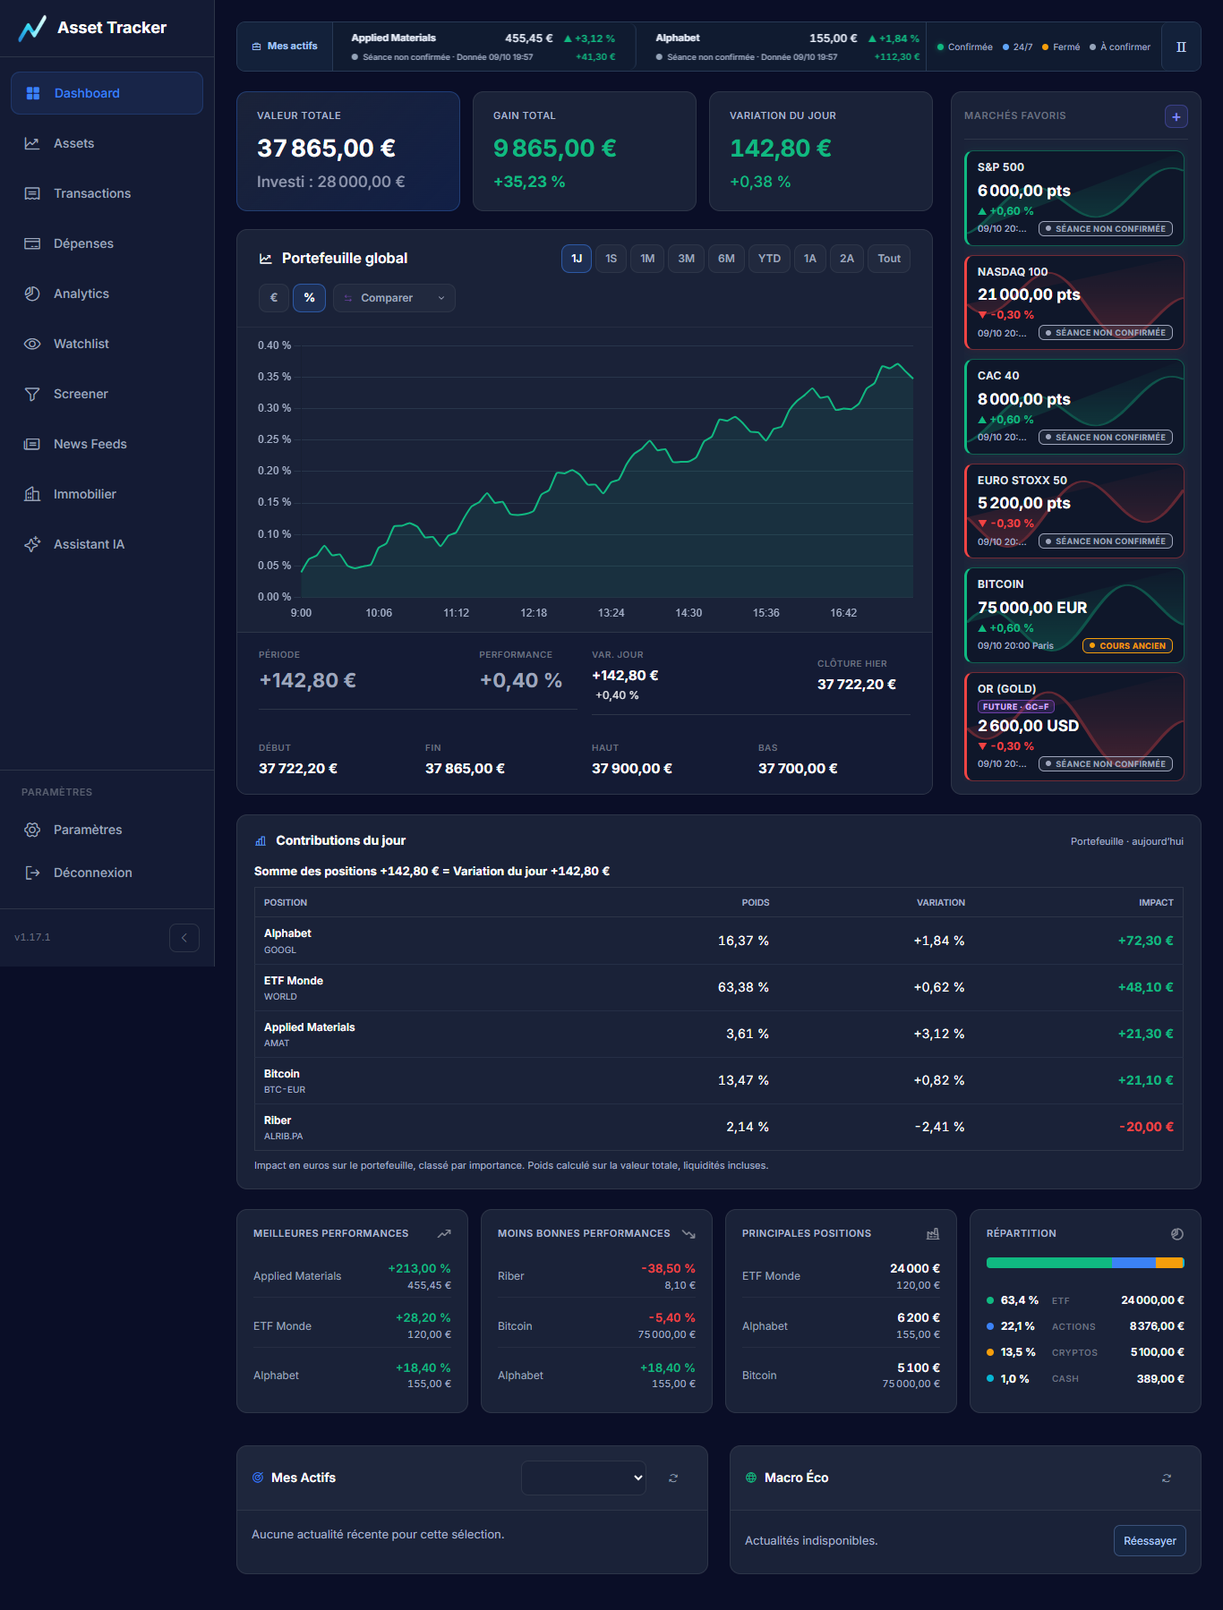
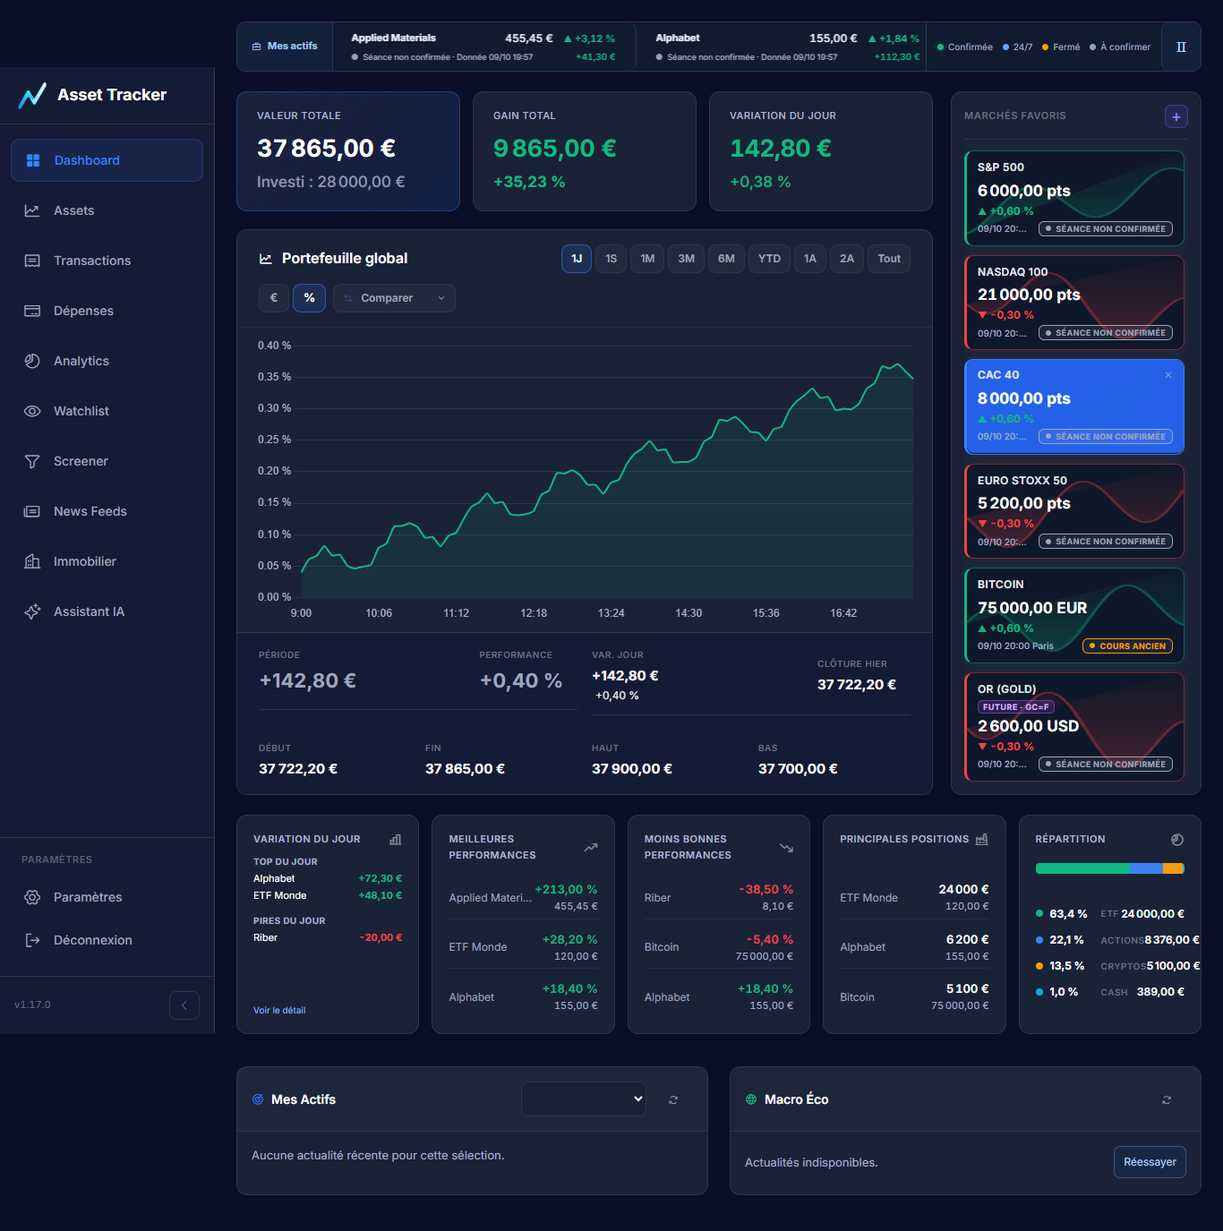
audit codex lot 2 fix carte var today detail

diff --git a/src/dashboardApp.js b/src/dashboardApp.js
@@ -28,7 +28,7 @@ import { buildWatchlistContext } from './watchlistContext.js';
 import { DEFAULT_DASHBOARD_INDICES } from './appDataContext.js';
 import { normalizeDashboardIndices, presentDashboardQuote, scheduledMarketStatus } from './dashboardMarketData.js';
 import { MarketTicker, selectPortfolioMovers } from './marketTicker.js';
-import { selectDailyContributions } from './dashboardContributions.js';
+import { selectDailyContributions, selectContributionHighlights } from './dashboardContributions.js';
 
 const SPARKLINE_TTL_MS = 5 * 60 * 1000;
 const marketCardStateClass = view => {
@@ -356,17 +356,67 @@ export class DashboardApp {
     }
 
     renderDailyContributions(snapshot, { previousSession = false, stale = false } = {}) {
+        const data = selectDailyContributions(snapshot, { previousSession });
+        const highlights = document.getElementById('dashboard-contribution-highlights');
+        const state = document.getElementById('dashboard-contribution-state');
         const panel = document.getElementById('dashboard-contributions');
+        if (!panel && !highlights) return;
+        const money = value => `${value > 0 ? '+' : ''}${new Intl.NumberFormat('fr-FR', {
+            style: 'currency', currency: 'EUR', minimumFractionDigits: 2, maximumFractionDigits: 2
+        }).format(value)}`;
+        if (highlights) {
+            highlights.replaceChildren();
+            const card = highlights.closest('.contribution-kpi-card');
+            if (card) card.dataset.status = data.status;
+            if (data.status === 'previous-session' || data.status === 'unavailable') {
+                const empty = document.createElement('p');
+                empty.className = 'contribution-kpi-empty';
+                empty.textContent = data.status === 'previous-session' ? 'Variation du jour indisponible' : 'Contributions indisponibles';
+                highlights.append(empty);
+            } else {
+                const { best, worst } = selectContributionHighlights(data);
+                for (const [label, rows, emptyText] of [
+                    ['Top du jour', best, 'Aucune hausse'],
+                    ['Pires du jour', worst, 'Aucune baisse']
+                ]) {
+                    const group = document.createElement('div');
+                    group.className = 'contribution-kpi-group';
+                    const heading = document.createElement('span');
+                    heading.className = 'contribution-kpi-group-label';
+                    heading.textContent = label;
+                    group.append(heading);
+                    if (!rows.length) {
+                        const empty = document.createElement('span');
+                        empty.className = 'contribution-kpi-placeholder';
+                        empty.textContent = emptyText;
+                        group.append(empty);
+                    }
+                    for (const row of rows) {
+                        const line = document.createElement('div');
+                        line.className = 'contribution-kpi-row';
+                        const name = document.createElement('span');
+                        name.className = 'contribution-kpi-name';
+                        name.textContent = row.name;
+                        name.title = row.name;
+                        const impact = document.createElement('strong');
+                        impact.className = row.impact > 0 ? 'stat-positive' : 'stat-negative';
+                        impact.textContent = money(row.impact);
+                        line.append(name, impact);
+                        group.append(line);
+                    }
+                    highlights.append(group);
+                }
+            }
+        }
+        if (state) {
+            state.textContent = data.status === 'partial' ? 'Décomposition partielle' : data.status === 'mismatch' ? 'Écart à vérifier' : stale && !['previous-session', 'unavailable'].includes(data.status) ? 'Dernier état connu' : 'Voir le détail';
+        }
         if (!panel) return;
         const summary = panel.querySelector('.contributions-summary');
         const note = panel.querySelector('.contributions-note');
         const table = panel.querySelector('.contributions-table');
         const body = table?.querySelector('tbody');
         if (!summary || !note || !table || !body) return;
-        const data = selectDailyContributions(snapshot, { previousSession });
-        const money = value => `${value > 0 ? '+' : ''}${new Intl.NumberFormat('fr-FR', {
-            style: 'currency', currency: 'EUR', minimumFractionDigits: 2, maximumFractionDigits: 2
-        }).format(value)}`;
         const percent = value => value === null ? '—' : `${value > 0 ? '+' : ''}${value.toLocaleString('fr-FR', {
             minimumFractionDigits: 2, maximumFractionDigits: 2
         })} %`;
@@ -1395,18 +1445,35 @@ export class DashboardApp {
     }
 
     setupKPIModals() {
-        // Card order matches the four corresponding detail views.
         const grid = document.querySelector('.dashboard-kpi-grid-v2');
         const cards = grid ? [...grid.querySelectorAll(':scope > .kpi-card')] : [];
-        const types = ['gainer', 'loser', 'asset', 'allocation'];
-        cards.forEach((card, i) => {
-            const type = types[i];
+        cards.forEach(card => {
+            const type = card.dataset.kpiType;
             if (!type) return;
             card.dataset.clickable = type;
-            card.addEventListener('click', () => {
-                if (type === 'allocation') this.openAllocationModal();
+            const open = () => {
+                if (type === 'contributions') this.openContributionsModal();
+                else if (type === 'allocation') this.openAllocationModal();
                 else this.openKPIModal(type);
+            };
+            card.addEventListener('click', open);
+            card.addEventListener('keydown', event => {
+                if (event.key !== 'Enter' && event.key !== ' ') return;
+                event.preventDefault();
+                open();
             });
+        });
+
+        document.getElementById('close-contributions-modal')?.addEventListener('click', () => this.closeContributionsModal());
+        document.getElementById('contributions-modal')?.addEventListener('click', event => {
+            if (event.target === event.currentTarget) this.closeContributionsModal();
+        });
+        document.getElementById('contributions-modal')?.addEventListener('keydown', event => {
+            if (event.key === 'Escape') this.closeContributionsModal();
+            if (event.key === 'Tab') {
+                event.preventDefault();
+                document.getElementById('close-contributions-modal')?.focus();
+            }
         });
 
         document.getElementById('close-kpi-modal')?.addEventListener('click', () => {
@@ -1420,6 +1487,21 @@ export class DashboardApp {
                 if (e.target === e.currentTarget) e.currentTarget.style.display = 'none';
             });
         });
+    }
+
+    openContributionsModal() {
+        const modal = document.getElementById('contributions-modal');
+        if (!modal) return;
+        this._contributionsReturnFocus = document.activeElement;
+        modal.style.display = 'flex';
+        document.getElementById('close-contributions-modal')?.focus();
+    }
+
+    closeContributionsModal() {
+        const modal = document.getElementById('contributions-modal');
+        if (!modal) return;
+        modal.style.display = 'none';
+        this._contributionsReturnFocus?.focus?.();
     }
 
     openKPIModal(type) {

diff --git a/dashboard.html b/dashboard.html
@@ -17,7 +17,7 @@
     <link rel="stylesheet" href="css/dashboard.css?v=102">
     <link rel="stylesheet" href="css/dashboard-mobile.css?v=6">
     <link rel="stylesheet" href="css/chart-toolbar.css?v=7">
-    <link rel="stylesheet" href="css/dashboard-premium.css?v=4">
+    <link rel="stylesheet" href="css/dashboard-premium.css?v=5">
 
     <link rel="preconnect" href="https://fonts.googleapis.com">
     <link rel="preconnect" href="https://fonts.gstatic.com" crossorigin>
@@ -273,22 +273,13 @@
                 </div>
             </div>
 
-            <section id="dashboard-contributions" class="dashboard-contributions" aria-labelledby="contributions-title">
-                <div class="contributions-header">
-                    <h3 id="contributions-title"><i class="ph ph-chart-bar" aria-hidden="true"></i> Contributions du jour</h3>
-                    <span class="contributions-horizon">Portefeuille · aujourd’hui</span>
-                </div>
-                <p class="contributions-summary">Chargement…</p>
-                <div class="contributions-table-wrap">
-                    <table class="contributions-table" aria-label="Impact quotidien des positions sur le portefeuille">
-                        <thead><tr><th scope="col">Position</th><th scope="col">Poids</th><th scope="col">Variation</th><th scope="col">Impact</th></tr></thead>
-                        <tbody></tbody>
-                    </table>
-                </div>
-                <p class="contributions-note"></p>
-            </section>
             <div class="dashboard-kpi-grid-v2">
-                <div class="kpi-card">
+                <div class="kpi-card contribution-kpi-card" data-kpi-type="contributions" role="button" tabindex="0" aria-haspopup="dialog" aria-controls="contributions-modal" aria-label="Variation du jour : voir toutes les contributions" aria-describedby="dashboard-contribution-highlights dashboard-contribution-state">
+                    <div class="kpi-header"><span class="kpi-label">Variation du jour</span><i class="ph ph-chart-bar kpi-icon" aria-hidden="true"></i></div>
+                    <div id="dashboard-contribution-highlights" class="contribution-highlights" aria-live="polite"></div>
+                    <div id="dashboard-contribution-state" class="contribution-kpi-state"></div>
+                </div>
+                <div class="kpi-card" data-kpi-type="gainer" role="button" tabindex="0">
                     <div class="kpi-header"><span class="kpi-label">Meilleures performances</span><i
                             class="ph ph-trend-up kpi-icon"></i>
                     </div>
@@ -296,7 +287,7 @@
                     <div class="kpi-meta"><span id="dashboard-top-gainer-pct" class="kpi-change-pct">-</span>
                     </div>
                 </div>
-                <div class="kpi-card">
+                <div class="kpi-card" data-kpi-type="loser" role="button" tabindex="0">
                     <div class="kpi-header"><span class="kpi-label">Moins bonnes performances</span><i
                             class="ph ph-trend-down kpi-icon"></i>
                     </div>
@@ -304,12 +295,12 @@
                     <div class="kpi-meta"><span id="dashboard-top-loser-pct" class="kpi-change-pct">-</span>
                     </div>
                 </div>
-                <div class="kpi-card">
+                <div class="kpi-card" data-kpi-type="asset" role="button" tabindex="0">
                     <div class="kpi-header"><span class="kpi-label">Principales positions</span><i
                             class="ph ph-factory kpi-icon"></i></div>
                     <div class="kpi-name-large" id="dashboard-top-sector">-</div>
                 </div>
-                <div class="kpi-card">
+                <div class="kpi-card" data-kpi-type="allocation" role="button" tabindex="0">
                     <div class="kpi-header"><span class="kpi-label">Répartition</span><i
                             class="ph ph-chart-pie-slice kpi-icon"></i>
                     </div>
@@ -414,6 +405,26 @@
                 <button class="index-tab" data-tab="Forex">Forex</button>
             </div>
             <div id="add-index-grid" class="add-index-grid"></div>
+        </div>
+    </div>
+
+    <!-- DÉTAIL DE LA VARIATION DU JOUR -->
+    <div id="contributions-modal" class="kpi-modal-overlay contributions-modal" style="display:none;" role="dialog" aria-modal="true" aria-labelledby="contributions-title">
+        <div class="kpi-modal-box">
+            <div class="kpi-modal-header">
+                <h3 id="contributions-title"><i class="ph ph-chart-bar" aria-hidden="true"></i> Contributions du jour</h3>
+                <button id="close-contributions-modal" class="kpi-modal-close" type="button" aria-label="Fermer les contributions du jour">×</button>
+            </div>
+            <div id="dashboard-contributions" class="dashboard-contributions kpi-modal-body">
+                <p class="contributions-summary">Chargement…</p>
+                <div class="contributions-table-wrap">
+                    <table class="contributions-table" aria-label="Impact quotidien des positions sur le portefeuille">
+                        <thead><tr><th scope="col">Position</th><th scope="col">Poids</th><th scope="col">Variation</th><th scope="col">Impact</th></tr></thead>
+                        <tbody></tbody>
+                    </table>
+                </div>
+                <p class="contributions-note"></p>
+            </div>
         </div>
     </div>
 

diff --git a/css/dashboard-premium.css b/css/dashboard-premium.css
@@ -27,14 +27,25 @@
 .dashboard-premium .kpi-row-left { min-width: 0; }
 .dashboard-premium .kpi-row-right { font-size: 13px; flex-shrink: 0; font-variant-numeric: tabular-nums; }
 .dashboard-premium .kpi-row-right .kpi-sub-value { font-size: 11px; color: var(--dashboard-muted); }
+.dashboard-premium .contribution-kpi-card { display: flex; flex-direction: column; }
+.contribution-highlights { display: flex; flex-direction: column; gap: 9px; flex: 1; min-width: 0; }
+.contribution-kpi-group { min-width: 0; }
+.contribution-kpi-group-label { display: block; margin-bottom: 2px; color: var(--dashboard-muted); font-size: 10px; font-weight: 700; text-transform: uppercase; letter-spacing: .04em; }
+.contribution-kpi-row { display: flex; justify-content: space-between; align-items: baseline; gap: 5px; min-width: 0; padding: 1px 0; font-size: 11px; }
+.contribution-kpi-name { min-width: 0; overflow: hidden; text-overflow: ellipsis; white-space: nowrap; color: var(--text-primary); }
+.contribution-kpi-row strong { flex-shrink: 0; font-size: 11px; font-variant-numeric: tabular-nums; }
+.contribution-kpi-placeholder, .contribution-kpi-empty { color: var(--dashboard-muted); font-size: 11px; }
+.contribution-kpi-empty { margin: 18px 0 0; }
+.contribution-kpi-state { margin-top: 6px; color: #8ab7ff; font-size: 10px; }
+.contribution-kpi-card[data-status="partial"] .contribution-kpi-state,
+.contribution-kpi-card[data-status="mismatch"] .contribution-kpi-state { color: #fbbf24; }
 .dashboard-contributions { min-width: 0; padding: 17px 19px; border: 1px solid var(--border-color); border-radius: 12px; background: var(--bg-card); }
-.contributions-header { display: flex; align-items: baseline; justify-content: space-between; gap: 12px; flex-wrap: wrap; }
-.contributions-header h3 { margin: 0; color: var(--text-primary); font-size: 14px; font-weight: 700; }
-.contributions-header h3 i { color: #60a5fa; margin-right: 7px; }
-.contributions-horizon { color: var(--dashboard-muted); font-size: 11px; }
+.contributions-modal .kpi-modal-box { max-width: 940px; }
+.contributions-modal .dashboard-contributions { border: 0; border-radius: 0; }
+.contributions-modal .kpi-modal-header i { color: #60a5fa; margin-right: 7px; }
 .contributions-summary { margin: 12px 0 8px; color: var(--text-primary); font-size: 13px; font-weight: 650; font-variant-numeric: tabular-nums; }
 .contributions-note { margin: 9px 0 0; color: var(--dashboard-muted); font-size: 11px; line-height: 1.45; }
-.contributions-table-wrap { min-width: 0; max-height: 320px; overflow: auto; scrollbar-width: thin; }
+.contributions-table-wrap { min-width: 0; max-height: 60vh; overflow: auto; scrollbar-width: thin; }
 .contributions-table { width: 100%; border-collapse: collapse; font-size: 12px; font-variant-numeric: tabular-nums; }
 .contributions-table th { position: sticky; top: 0; background: var(--bg-card); color: var(--dashboard-muted); text-align: right; font-size: 10px; font-weight: 600; padding: 8px 10px; border-bottom: 1px solid var(--border-color); }
 .contributions-table th:first-child { text-align: left; }
@@ -139,13 +150,12 @@
 .dashboard-premium :is(button, select, summary, [role="button"]):focus-visible { outline: 2px solid #8ab7ff; outline-offset: 3px; }
 @keyframes market-ticker-scroll { to { transform: translateX(-50%); } }
 
-@media (min-width: 1200px) { .dashboard-premium .dashboard-kpi-grid-v2 { grid-template-columns: repeat(4, minmax(0, 1fr)); } }
+@media (min-width: 1200px) { .dashboard-premium .dashboard-kpi-grid-v2 { grid-template-columns: repeat(5, minmax(0, 1fr)); } }
 @media (max-width: 1180px) {
     .dashboard-premium .dashboard-top-section { display: contents; }
     .dashboard-premium .dashboard-left-column { order: 0; }
-    .dashboard-premium .dashboard-contributions { order: 1; }
     .dashboard-premium .dashboard-indices-panel-full { order: 2; }
-    .dashboard-premium .dashboard-kpi-grid-v2 { order: 3; }
+    .dashboard-premium .dashboard-kpi-grid-v2 { order: 1; }
     .dashboard-premium .dashboard-bottom-section { order: 4; }
     .dashboard-premium .dashboard-indices-panel-full { height: auto; min-height: 0; }
     .dashboard-premium .indices-list { display: grid; grid-template-columns: repeat(3, minmax(0, 1fr)); gap: 10px; overflow: visible; }

diff --git a/tests/dashboardPremium.test.js b/tests/dashboardPremium.test.js
@@ -2,7 +2,7 @@
 import { afterEach, beforeAll, describe, expect, it, vi } from 'vitest';
 import { normalizeDashboardIndices, normalizeDashboardQuote, presentDashboardQuote, quoteSession, scheduledMarketStatus } from '../src/dashboardMarketData.js';
 import { MarketTicker, selectPortfolioMovers } from '../src/marketTicker.js';
-import { selectDailyContributions } from '../src/dashboardContributions.js';
+import { selectDailyContributions, selectContributionHighlights } from '../src/dashboardContributions.js';
 import { PriceAPI } from '../src/api.js';
 import { createFakeStorage } from './helpers.js';
 import { marketCalendarEngine } from '../src/MarketCalendarEngine.js';
@@ -319,5 +319,37 @@ describe('Daily portfolio contributions', () => {
         app.renderDailyContributions(data, { previousSession: true });
         expect(document.querySelector('.contributions-table').hidden).toBe(true);
         expect(document.querySelector('.contributions-summary').textContent).toBe('Variation du jour indisponible');
+    });
+    it('selects two positive and two negative daily impacts', () => {
+        const rows = [position('A', 8), position('B', -3), position('C', 30), position('D', -20), position('E', 12), position('F', -9)]
+            .map(p => ({ ticker: p.ticker, impact: p.dayPnl }));
+        expect(selectContributionHighlights({ rows })).toMatchObject({
+            best: [{ ticker: 'C' }, { ticker: 'E' }],
+            worst: [{ ticker: 'D' }, { ticker: 'F' }]
+        });
+        expect(selectContributionHighlights({ rows: rows.filter(row => row.impact > 0) }).worst).toEqual([]);
+    });
+    it('opens the full table from the compact card and preserves data-quality states', () => {
+        document.body.innerHTML = `<div class="dashboard-kpi-grid-v2"><div class="kpi-card contribution-kpi-card" data-kpi-type="contributions" tabindex="0">
+            <div id="dashboard-contribution-highlights"></div><div id="dashboard-contribution-state"></div></div></div>
+            <div id="contributions-modal" style="display:none"><button id="close-contributions-modal">Fermer</button>
+            <section id="dashboard-contributions"><p class="contributions-summary"></p>
+            <div class="contributions-table-wrap"><table class="contributions-table"><tbody></tbody></table></div>
+            <p class="contributions-note"></p></section></div>`;
+        const app = Object.create(DashboardApp.prototype);
+        app.setupKPIModals();
+        const data = snapshot([position('AAA', 45), position('BBB', -15), position('CCC', null)]);
+        app.renderDailyContributions(data);
+        expect(document.querySelector('#dashboard-contribution-highlights').textContent).toContain('AAA');
+        expect(document.querySelector('#dashboard-contribution-highlights').textContent).toContain('BBB');
+        expect(document.querySelector('#dashboard-contribution-state').textContent).toContain('partielle');
+        document.querySelector('.contribution-kpi-card').click();
+        expect(document.getElementById('contributions-modal').style.display).toBe('flex');
+        expect(document.querySelectorAll('.contributions-table tbody tr')).toHaveLength(3);
+        document.getElementById('close-contributions-modal').click();
+        expect(document.getElementById('contributions-modal').style.display).toBe('none');
+        app.renderDailyContributions(data, { previousSession: true });
+        expect(document.querySelector('.contributions-table').hidden).toBe(true);
+        expect(document.querySelector('#dashboard-contribution-highlights').textContent).toContain('indisponible');
     });
 });

diff --git a/src/dashboardContributions.js b/src/dashboardContributions.js
@@ -20,3 +20,11 @@ export function selectDailyContributions(snapshot, { previousSession = false } =
     const status = missing ? 'partial' : Math.abs(residual) > 0.01 ? 'mismatch' : 'complete';
     return { status, rows, total: snapshot.dayPnl, explained, residual, missing };
 }
+
+export function selectContributionHighlights(data) {
+    const rows = data?.rows || [];
+    return {
+        best: rows.filter(row => row.impact > 0).sort((a, b) => b.impact - a.impact).slice(0, 2),
+        worst: rows.filter(row => row.impact < 0).sort((a, b) => a.impact - b.impact).slice(0, 2)
+    };
+}

diff --git a/audit/dashboard-audit-2026-10-11.md b/audit/dashboard-audit-2026-10-11.md
@@ -4,6 +4,12 @@ Date : 11 octobre 2026 · mis à jour le 12 octobre 2026 (lot 2).
 
 Périmètre de l'audit initial : capture fournie et lecture du code local du dashboard, de son adaptateur de cotations, de ses styles et de composants partagés. Audit de présentation, d'usage et de contrats de données ; aucun parcours authentifié exécuté, aucun cours actuel vérifié, aucun audit exhaustif des calculs de portefeuille. Les références de lignes décrivent le code avant les changements décrits dans le suivi ci-dessous.
 
+## Suivi — carte Variation du jour compacte (12 octobre 2026)
+
+Le grand tableau des contributions est déplacé dans une fenêtre ouverte depuis la première des **cinq cartes KPI secondaires**. La carte affiche les deux impacts positifs les plus élevés et les deux impacts négatifs les plus forts, en euros. Le tableau complet conserve ses poids, variations, impacts et messages de rapprochement ou de données partielles. Sur bureau (1 366 et 1 920 px), les cinq cartes tiennent sur une ligne ; sur mobile, elles s'empilent.
+
+Validation : tests ciblés (27 réussis), contrôle Chrome isolé à 360, 390, 768, 1 366 et 1 920 px avec ouverture du tableau à chaque taille, sans débordement. Suite complète : 717 tests réussis sur 718 ; l'unique échec est le décalage préexistant entre `version.json` (1.17.1) et `RELEASES.md` (1.17.0).
+
 ## Suivi — premier lot livré localement
 
 La demande « go pour le premier lot » suit la proposition de regrouper fiabilité, bandeau et réorganisation du haut de page. Ce lot est implémenté localement ; aucun déploiement effectué.
